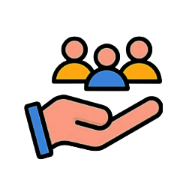
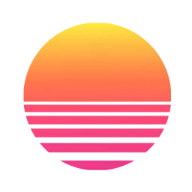
Add files via upload

diff --git a/index.html b/index.html
@@ -3,7 +3,7 @@
 <head>
     <meta charset="UTF-8">
     <meta name="viewport" content="width=device-width, initial-scale=1.0">
-    <title>Sonne und Mond test</title>
+    <title>Sonne und Mond</title>
     
     <link rel="manifest" href="manifest.json">
     <link rel="icon" type="image/png" href="icon-192.png"> 
@@ -25,8 +25,8 @@
 
     <script src="https://cdn.tailwindcss.com"></script>
     <style>
-        html { background-color: #000000 !important;overscroll-behavior-y: none; }
-        body { background-color: #131797; }        
+        html { background-color: #000000 !important; overscroll-behavior-y: none;}
+        body { background-color: #131797; }
         .app-container { background: #1e293b; border-radius: 2rem; box-shadow: 0 25px 50px -12px rgba(0, 0, 0, 0.5); }
         .card { background: #f8fafc; border-radius: 1.25rem; transition: all 0.3s ease; border: 1px solid #e2e8f0; color: #1e293b; }
         .tab-active-sun { background: #fbbf24; color: #0f172a; font-weight: 700; border-radius: 0.75rem; }
@@ -129,7 +129,7 @@
         let isUserEditing = false;
         let autoUpdateActive = true;
 
-         // Hilfsfunktion zur Formatierung
+        // Hilfsfunktion zur Formatierung
 function toDMS(deg) {
     const d = Math.floor(Math.abs(deg));
     const m = Math.floor((Math.abs(deg) - d) * 60);

diff --git a/sw.js b/sw.js
@@ -1,4 +1,4 @@
-const CACHE_NAME = 'uhrzeit_test-v3'; // Ändere v2 um Updates zu erzwingen
+const CACHE_NAME = 'sonne_mond-v2'; // Ändere v2 zu v3, v4 etc., um Updates zu erzwingen
 const ASSETS = [
   'index.html',
   'manifest.json',